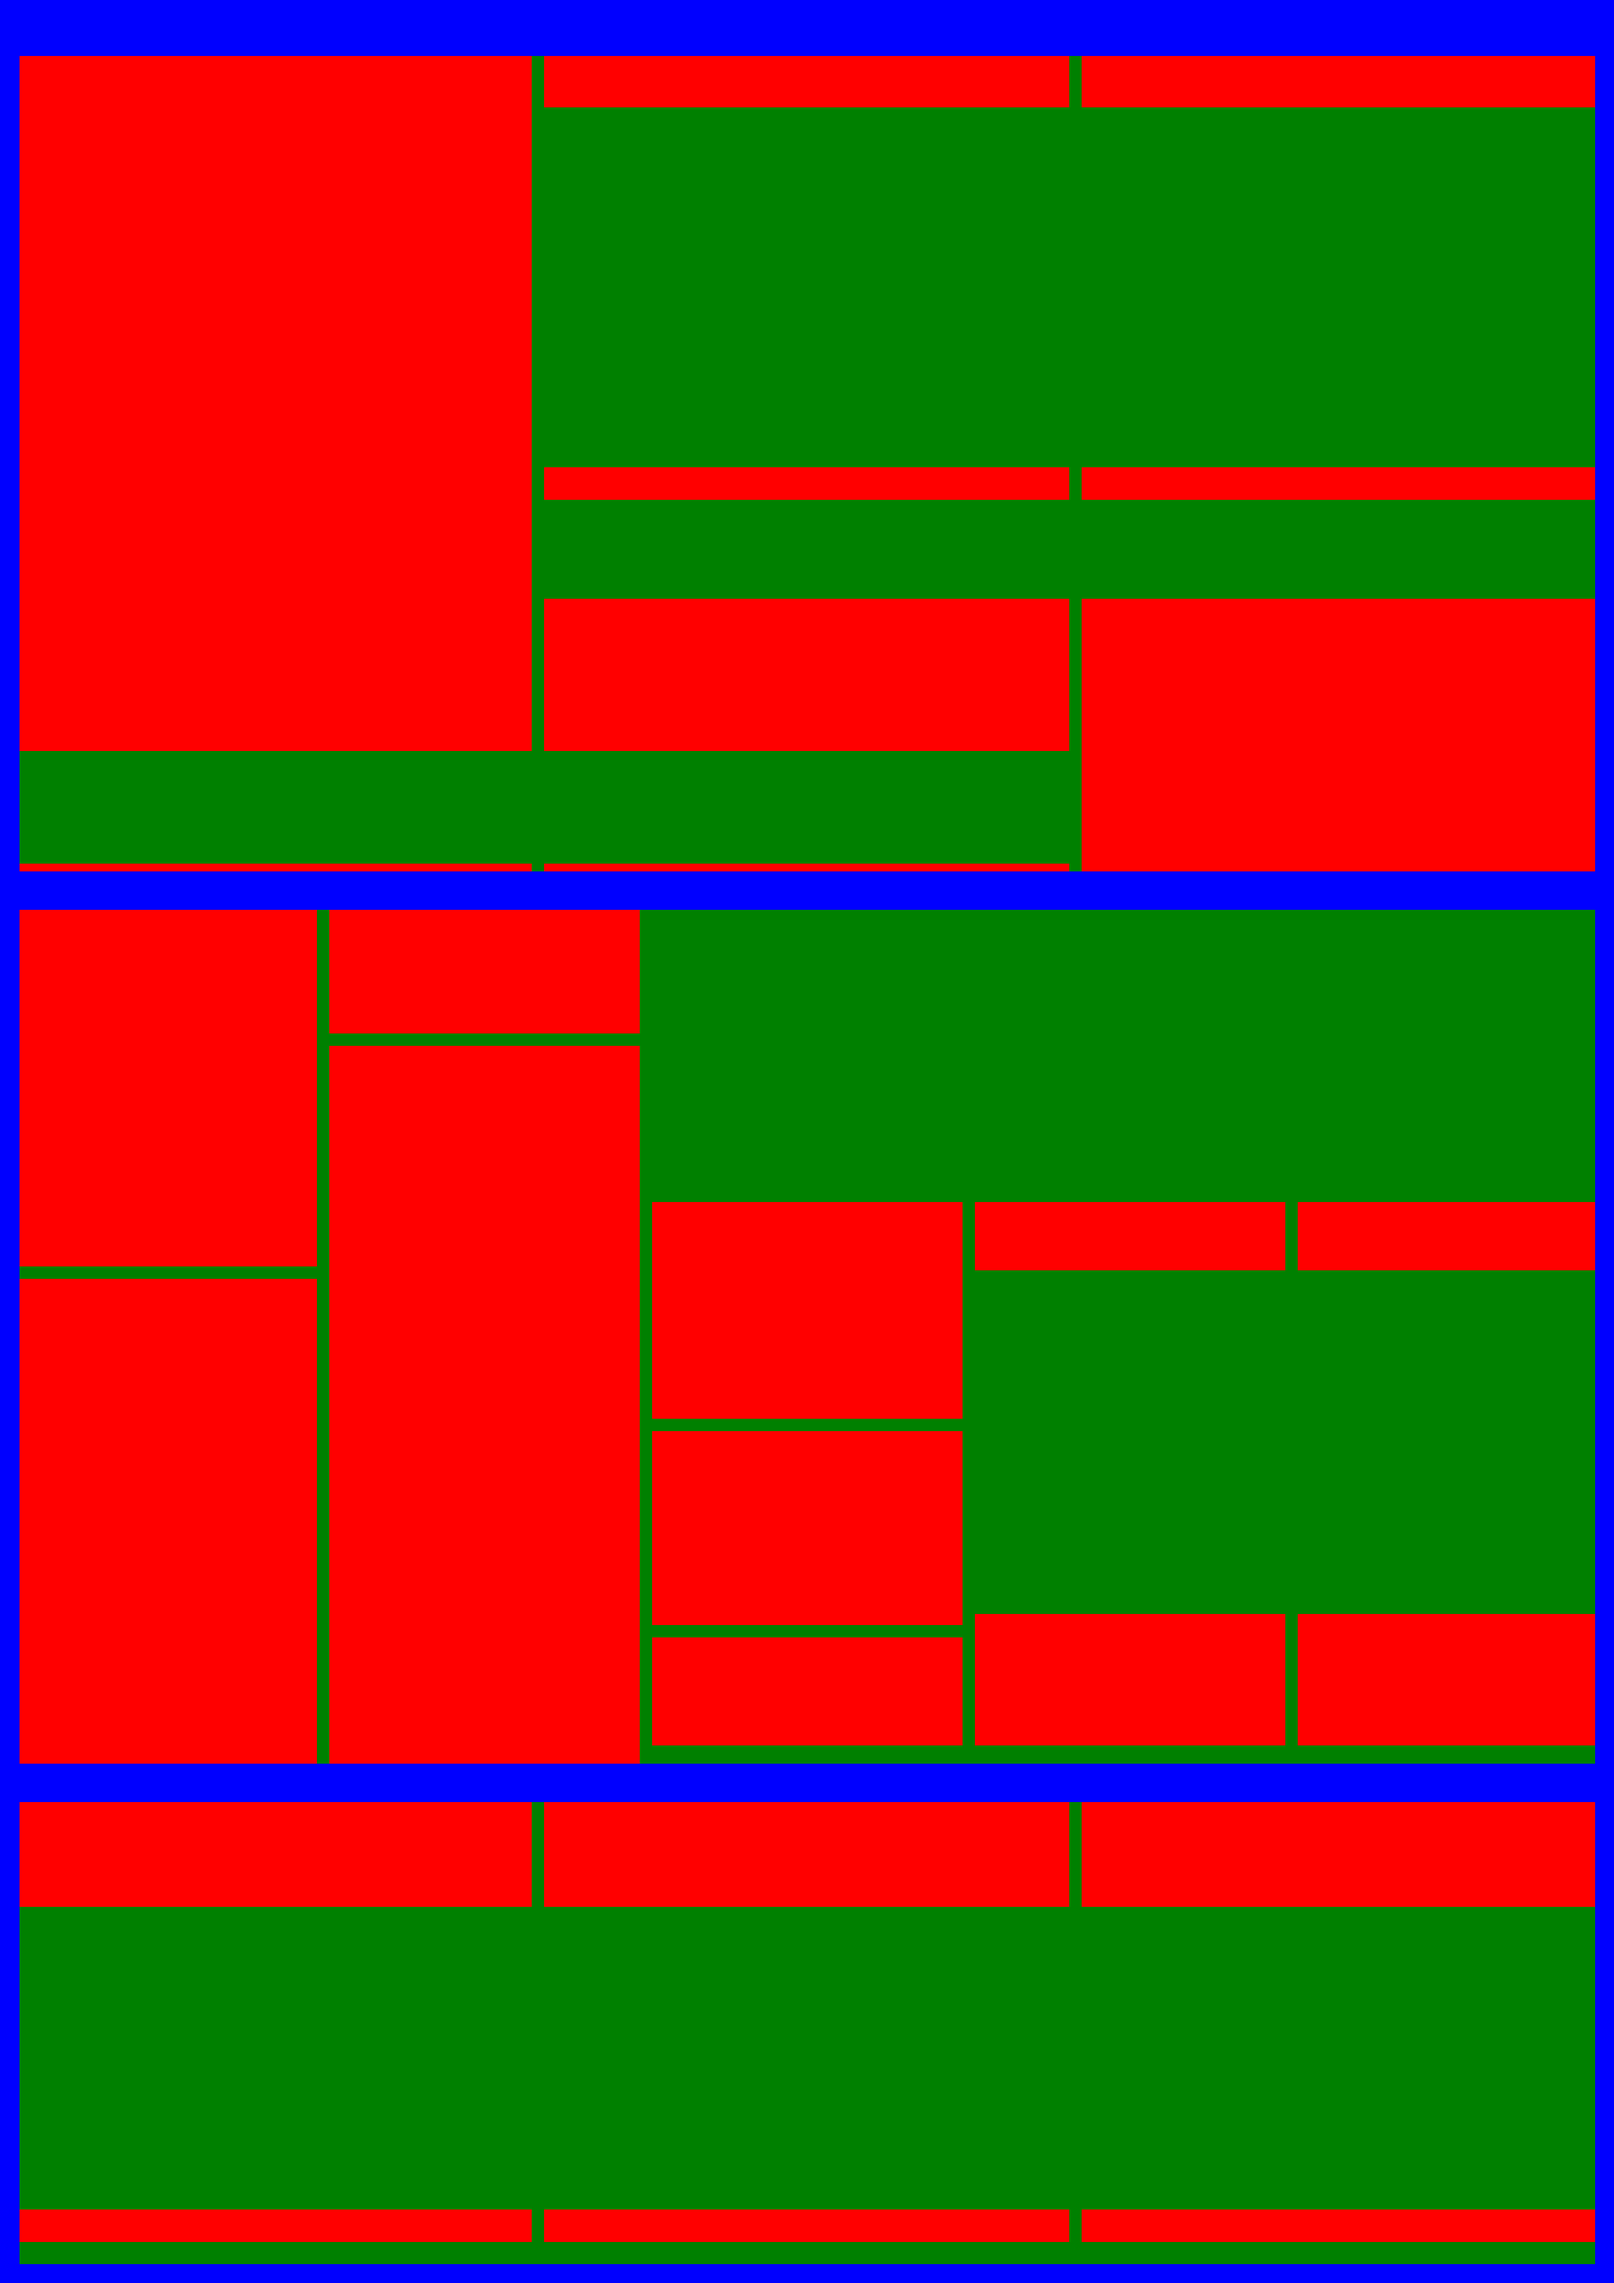
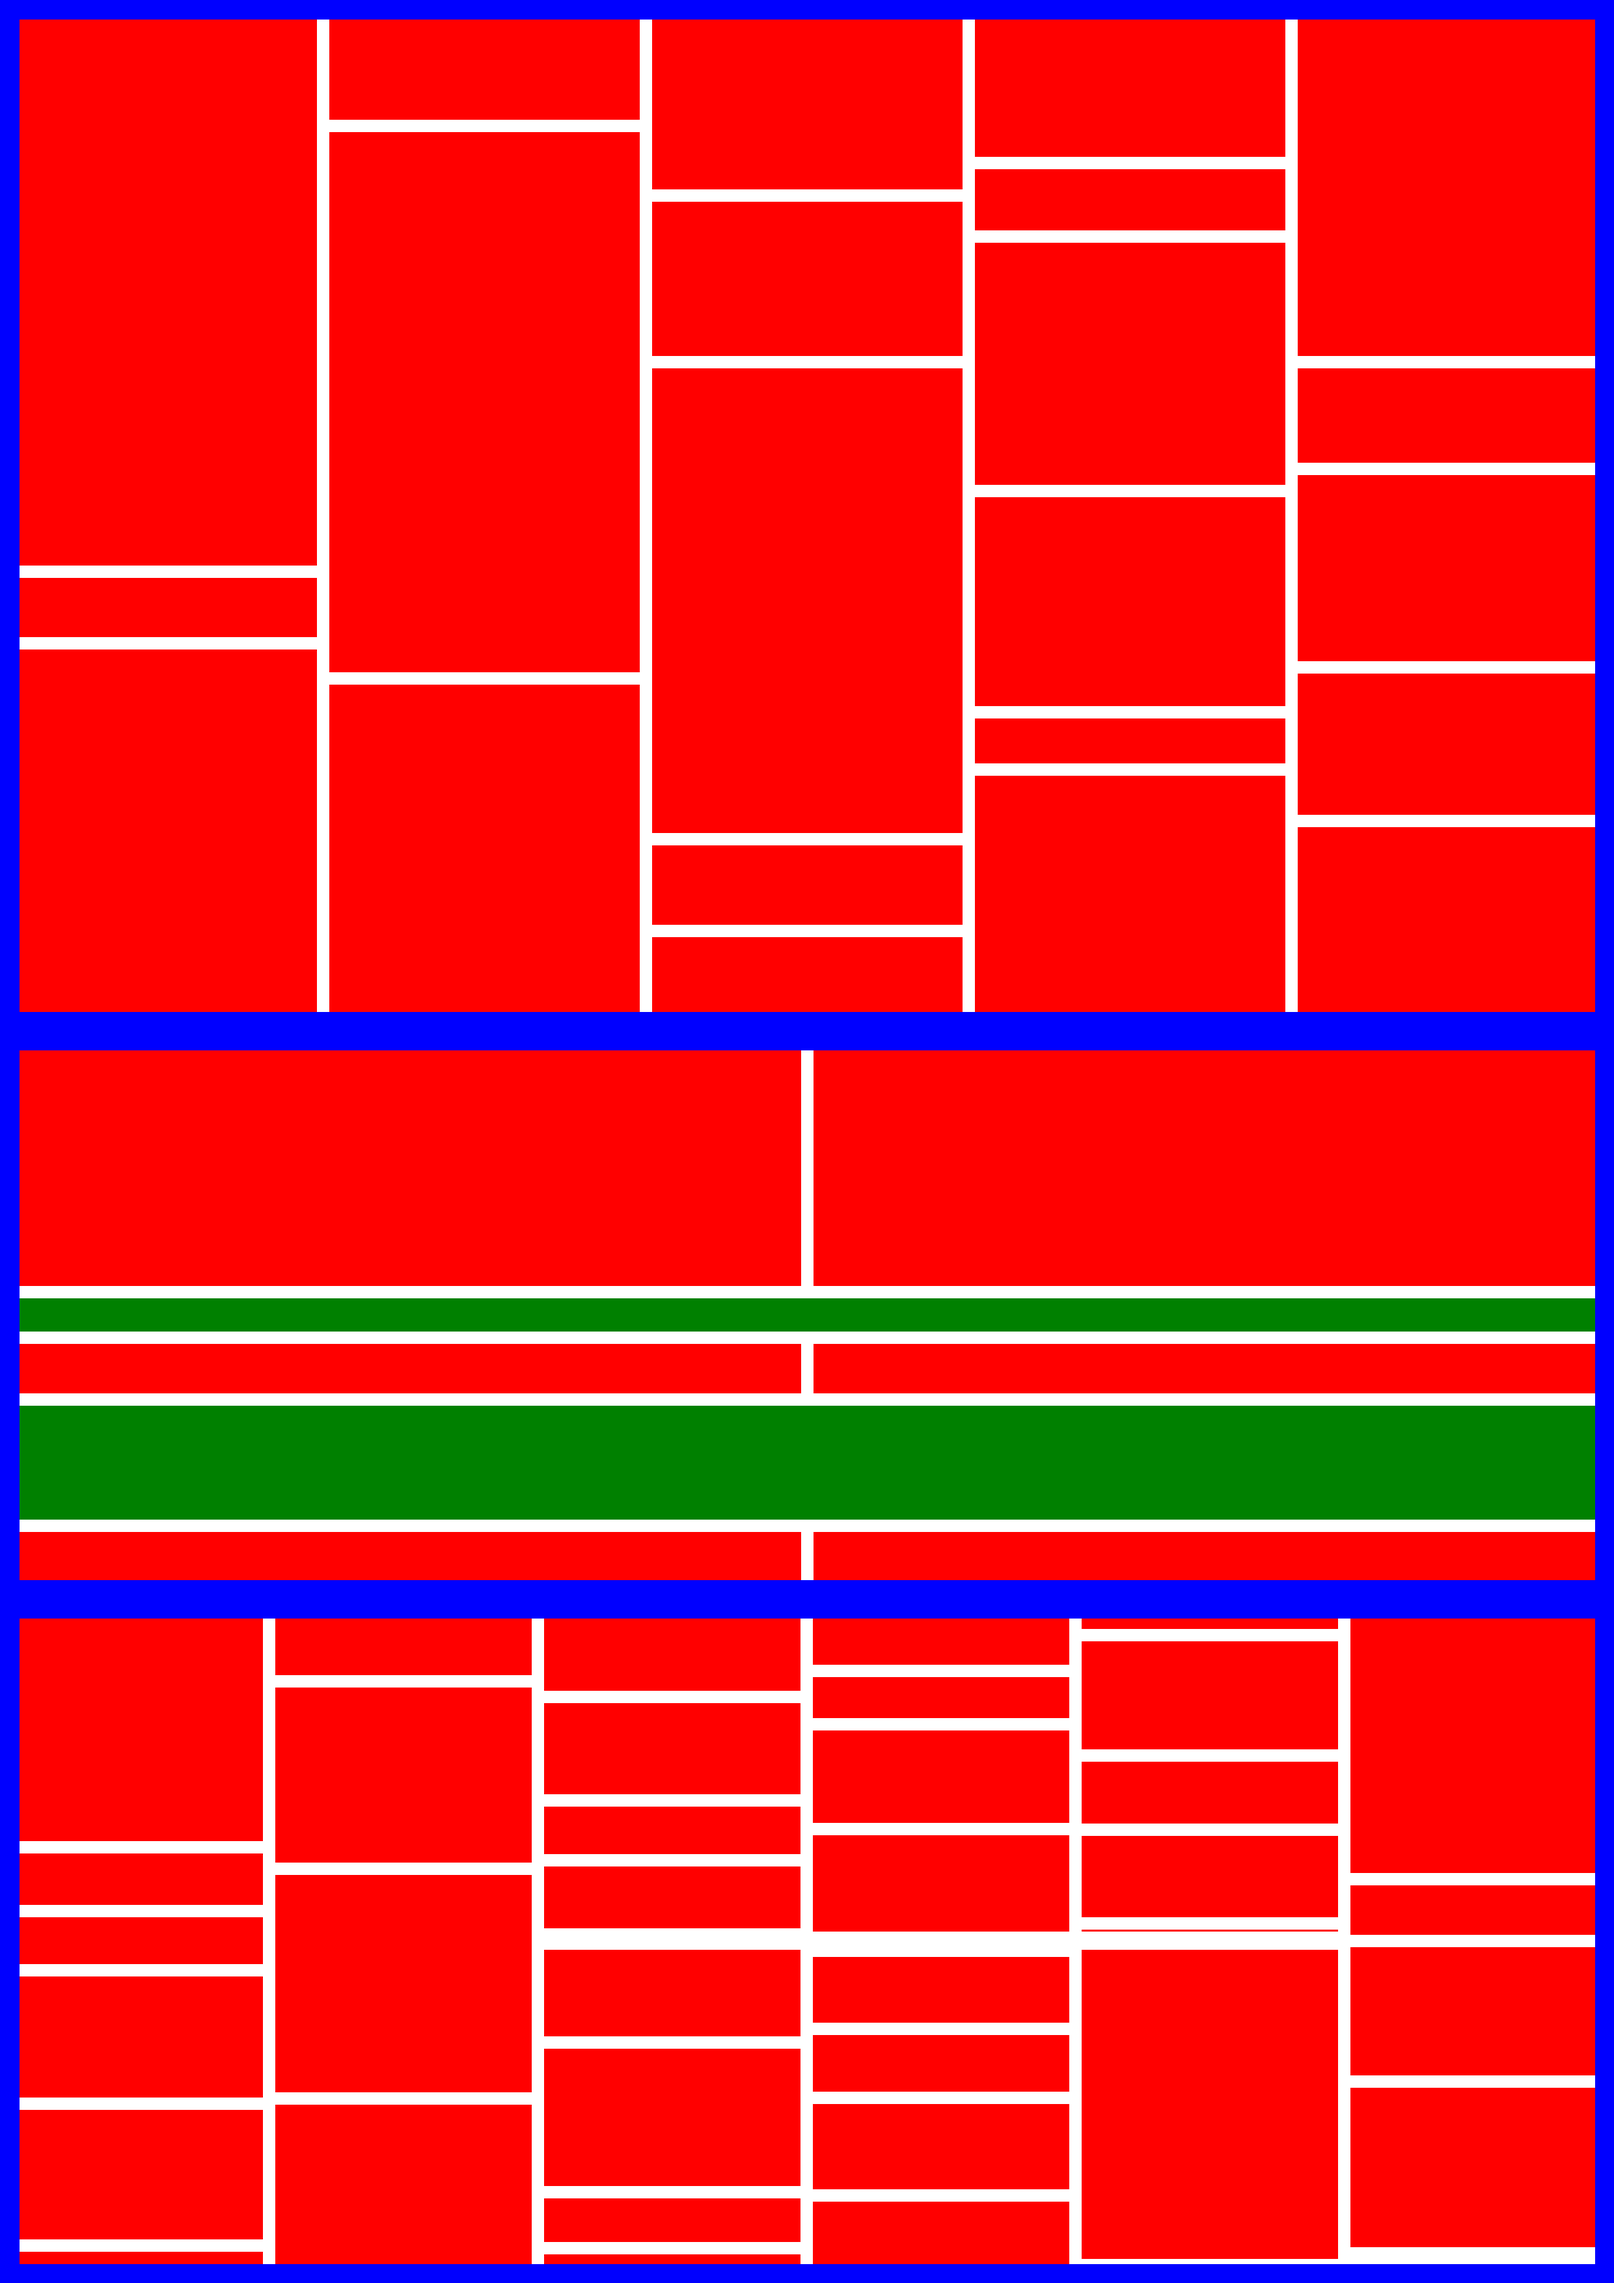
init

diff --git a/create_layout.py b/create_layout.py
@@ -184,11 +184,11 @@ def layout_design(size=[2480, 3508]):
     area = 0
     for x in paragraph:
         area += (x['bbox'][2]-x['bbox'][0]) *(x['bbox'][3]-x['bbox'][1])
-        drawer.rectangle(x['bbox'], outline='green', width=10, fill='red')
+        drawer.rectangle(x['bbox'], outline='white', width=10, fill='red')
 
     for x in independent_region:
         area += (x['bbox'][2] - x['bbox'][0]) * (x['bbox'][3] - x['bbox'][1])
-        drawer.rectangle(x['bbox'], outline='green', width=10, fill='green')
+        drawer.rectangle(x['bbox'], outline='white', width=10, fill='green')
 
     for x in sub_page_of_whole:
         drawer.rectangle(x['bbox'], outline='blue', width=30)
